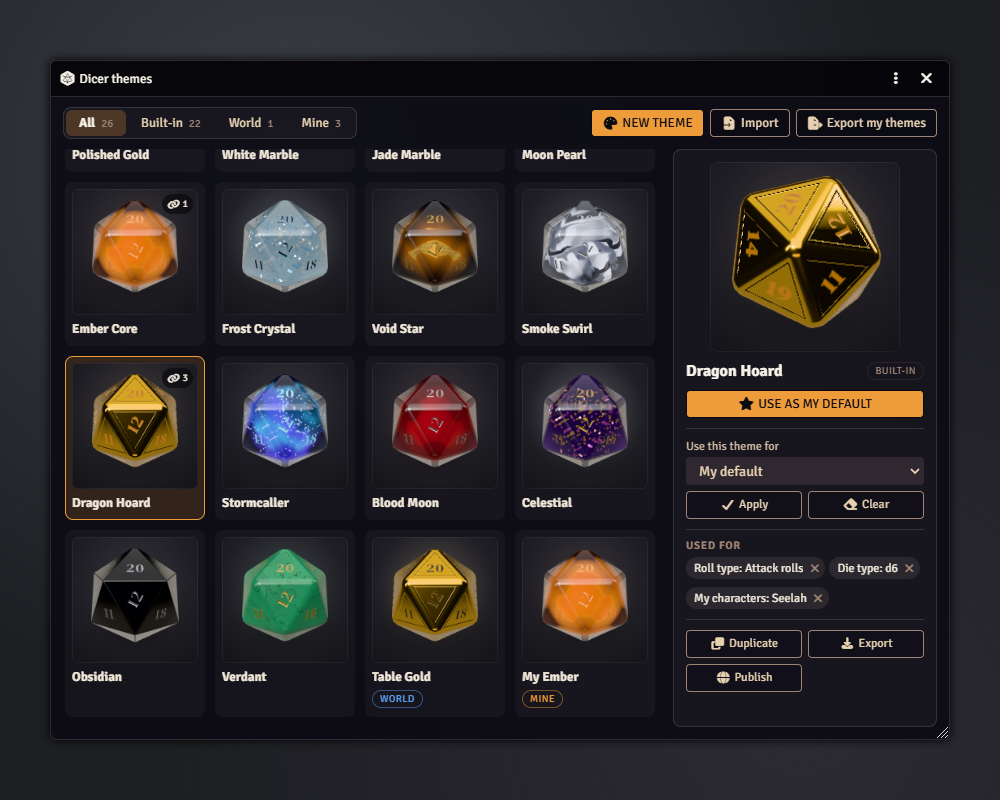
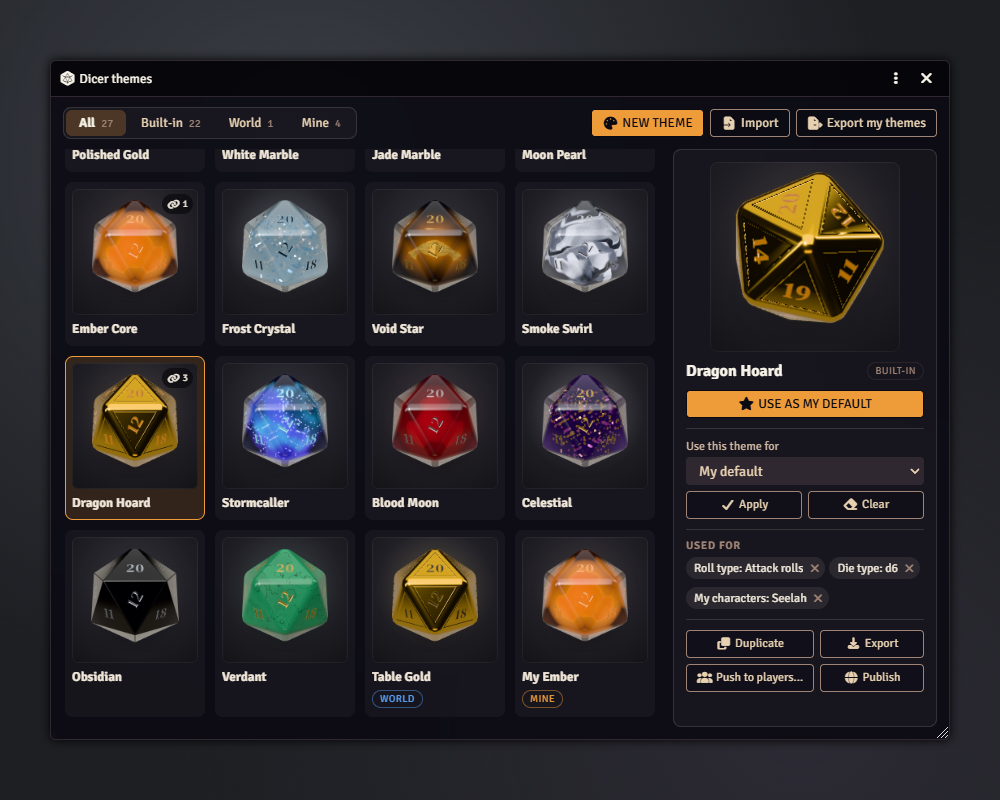
docs: customization review shots, live checks and README

Changed region(s): [[0.713, 0.2188, 0.899, 0.4062], [0.713, 0.7812, 0.899, 0.875], [0.682, 0.8438, 0.806, 0.875]]

diff --git a/dev/editors.js b/dev/editors.js
@@ -133,6 +133,27 @@ globalThis.foundry = {
   utils: { expandObject, randomID: () => Math.random().toString(36).slice(2, 10) },
   data: { operators: { ForcedDeletion: { create: () => undefined } } },
 };
+// A minimal DialogV2.confirm: shows the dialog's own content (the push panel) and waits for a button.
+globalThis.foundry.applications.api.DialogV2 = {
+  confirm({ window: win, content, yes }) {
+    return new Promise((resolve) => {
+      const el = document.createElement('form');
+      el.className = 'application dialog dialog-v2 themed theme-dark';
+      el.style.cssText = 'position:absolute;left:300px;top:260px;width:400px;height:auto;z-index:100';
+      el.innerHTML = `<header class="window-header"><h1 class="window-title">${esc(win.title)}</h1></header>
+        <section class="window-content standard-form">${content}
+          <footer class="form-footer"><button type="button" data-r="yes"><i class="fa-solid fa-check"></i> ${esc(localize('DICER.Themes.Push'))}</button>
+          <button type="button" data-r="no"><i class="fa-solid fa-xmark"></i> ${esc(localize('Cancel'))}</button></footer></section>`;
+      el.addEventListener('click', (event) => {
+        const r = event.target.closest('[data-r]')?.dataset.r;
+        if (!r) return;
+        el.remove();
+        resolve(r === 'yes' ? yes.callback(event, { form: el }) : null);
+      });
+      document.getElementById('stage').appendChild(el);
+    });
+  },
+};
 
 // --- sample world ---------------------------------------------------------------------------------
 const quiet = () => {};
@@ -177,6 +198,12 @@ const store = {
   ],
   disabledModuleTriggers: [],
 };
+// ?locked=1 (with &player=1): the GM has set everyone's dice to a world default and locked it.
+if (params.get('locked') === '1') {
+  store.worldDefaultTheme = 'dragon-hoard';
+  store.theme = 'dragon-hoard';
+  store.lockPlayerLooks = true;
+}
 const userFlags = {
   themes: [
     { id: 'user.u1.my-ember', name: 'My Ember', appearance: theme('ember-core').appearance },
@@ -190,6 +217,18 @@ const userFlags = {
         numbers: { fill: 'gold', color: '#e2b04a', depth: 0.55, font: 'serif' },
         edges: { radius: 0.5 },
         glow: { color: '#7fb4ff', intensity: 0 },
+      },
+      perType: {},
+      rules: [],
+    },
+    {
+      id: 'user.u1.georgia-gold',
+      name: 'Georgia Gold',
+      appearance: {
+        body: { type: 'opaque', color: '#5a1620', color2: '#2a0910', finish: 'polished', roughness: 0.2 },
+        numbers: { fill: 'gold', color: '#e2b04a', depth: 0.55, font: 'css:Georgia' },
+        edges: { radius: 0.25 },
+        glow: { color: '#ffd166', intensity: 0 },
       },
       perType: {},
       rules: [],

diff --git a/docs/live-checks.md b/docs/live-checks.md
@@ -143,4 +143,42 @@ The privacy of effects and sounds for blind rolls, and **Show other players' eff
 1. Open **Theme browser** on a real GPU (not a remote desktop or software rendering).
 2. Pass: all themes show a lit die picture within a few seconds, the pictures match what the dice look like when rolled, and the dice canvas does not flicker. Close the browser: `game.dice3d._debug.isLooping` stays false and no extra WebGL context remains in the browser's task manager or `chrome://gpu`.
 
+## 23. Design a theme, use it as default, see it on another player's screen
+
+1. Open **Theme browser**, press **New theme** and design a look in the appearance editor: a body type, colours, a number fill and some edge sharpness. Name it, press **Save as my theme**, then use it as your default.
+2. As player B (another client), watch you roll a public d20 and a d6.
+3. Pass: your dice look like the editor's preview on B's screen. The first roll with the new look shows no visible hitch.
+
+## 24. A font from the computer and a font file
+
+1. In the appearance editor, set **Font** to **On this computer**, type a font you have (for example Georgia) or pick a chip, and check that the preview die shows the new digits within a moment.
+2. Set **Font** to **Font file**, pick a `.ttf`, `.otf` or `.woff` file on the Foundry server, and check the preview again.
+3. Type a family that does not exist, or a path to a file that is not a font. Pass: the die keeps the default digits and the console shows one warning, never an error loop. On another player's computer that lacks your font, your dice also show the default digits.
+
+## 25. Edge steps on every die
+
+1. Edit a theme and press each of the five **Sharpness** steps (sharp to very round).
+2. Click each die type (d4, d6, d8, d10, d12, d20, d100) under the preview for at least the first and last step.
+3. Pass: every die changes shape with the step, none shows holes, gaps or flickering faces, and a roll with the saved theme matches.
+
+## 26. GM push, with and without "Replace everything"
+
+1. Give player A a d6 theme of their own and a default theme of their own.
+2. As the GM, select a theme in **Theme browser**, press **Push to players...** and confirm without ticking **Replace everything**.
+3. Pass: A's default is the pushed theme and their d6 choice is kept. A notice shows how many players were updated.
+4. Push another theme and tick **Replace everything**. Pass: A's d6 choice and their per-roll-type choices are cleared too.
+5. As a player, check that **Push to players...** is not shown.
+
+## 27. Lock player looks
+
+1. As the GM, set **World default theme**, then turn on **Lock player looks**.
+2. As a player who chose another theme, roll a d20.
+3. Pass: the dice use the world default, the theme browser says "Your GM has set everyone's dice" and its "use" actions are gone. The player can still design and save a theme. The GM's own dice are not affected. Turn the lock off and the player's choice returns.
+4. Known limit: a player whose theme is already the built-in default (Sapphire Nebula) and who selects it again does not override the GM's world default, because Foundry fires no change for an unchanged setting. They pick another theme and then Sapphire again.
+
+## 28. The actor-sheet "Dice look" button
+
+1. With **Dice look button on actor sheets** on, open a character sheet you own.
+2. Pass: a **Dice look** button shows in the sheet header and opens the theme browser pointed at that character. Turn the setting off and the button is gone the next time the sheet renders.
+
 The roll area rules (a player's area, the GM private corner) are also automated in `npm run test:live:areas`.

diff --git a/README.md b/README.md
@@ -98,11 +98,31 @@ Themes follow the same privacy rule as looks and effects. Someone who cannot see
 
 To look at all 22 themes and throw each one with its celebration, run `npm run dev` and open `/dev/themes.html`.
 
+## Designing your own dice
+
+In the theme browser press **New theme** (or duplicate a theme and edit it). The appearance editor shows a live die that turns as you edit. You can change:
+
+- **Body**: opaque, clear resin, metal, marble or pearl, with colours, roughness and a finish. Only clear resin has an **Inside** (a nebula, glitter and so on).
+- **Numbers**: paint, gold, silver or enamel, a colour, the engraving depth and a font.
+- **Edges**: five steps of sharpness, from sharp to very round.
+- **Glow**, a look **per die type**, and the **sound and celebrations**.
+
+Every look is saved as a theme, so it can be your default, be used for one die type, one kind of roll or one character, be exported, and (GM) be published to the world.
+
+### Fonts
+
+- **Serif** is the built-in DM Serif Display and **Sans** is Atkinson Hyperlegible Bold, a clear face made for reading. Both are open fonts and ship with Dicer.
+- **On this computer** uses a font installed on your computer (or loaded by the page's CSS). Other players see it only if they have it too.
+- **Font file** uses a `.ttf`, `.otf` or `.woff` file in Foundry's data folder, so every player gets the same digits.
+- The digits of a computer font or a font file are built in the background the first time they are needed and then kept. Until they are ready the dice show the serif digits. A font that cannot be loaded falls back to the serif digits and writes one warning to the console.
+
 ## GM controls
 
 - **World default theme** (a setting): the theme players' dice use until they choose one of their own.
 - **Push to players**: in the theme browser, select a theme and click "Push to players...". It becomes every player's default theme. Their choices for a die type or a kind of roll are kept, unless you tick "Replace everything".
 - **Lock player looks** (a setting, needs a world default theme): every player's dice use the world default, whatever they chose, and the browser hides their "use" actions ("Your GM has set everyone's dice"). Players can still design and save themes. GMs are not affected, and a roll, colorset or damage type that names its own look still does.
+  - A player whose theme is already Sapphire Nebula (the built-in default) and who selects it again does not override the GM's world default, because Foundry fires no change for an unchanged setting. To keep Sapphire over a world default, they pick another theme and then pick Sapphire again.
+- **Dice look button on actor sheets** (a client setting): shows a Dice look button in the header of the sheets of actors you own.
 - The existing world caps stay as they were: **Graphics quality** (the world cap) and **Maximum dice**. No new caps.
 
 ## Roll areas
